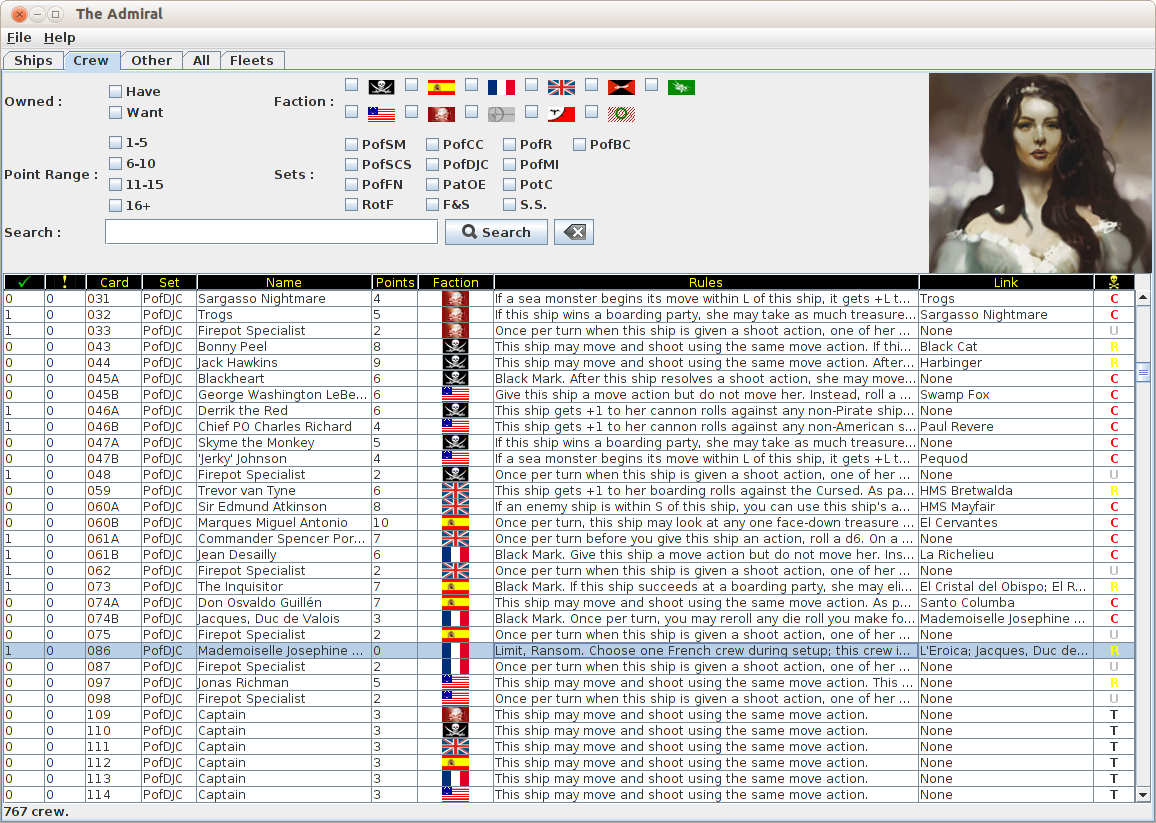
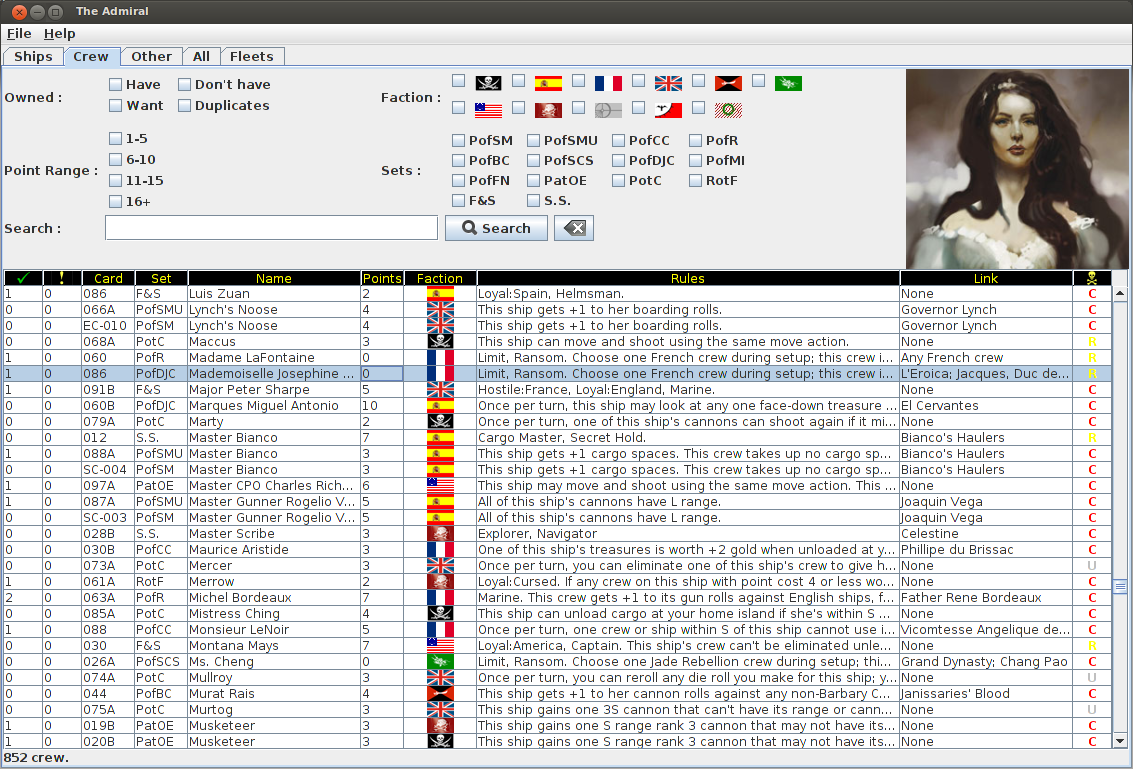
Added "don't have" filter.

diff --git a/src/main/java/net/coljac/pirates/gui/CardFilterPanel.java b/src/main/java/net/coljac/pirates/gui/CardFilterPanel.java
@@ -51,7 +51,7 @@ public class CardFilterPanel extends JPanel implements ActionListener {
     private JCheckBox pt1_5, pt6_10, pt11_15, pt_16;
 
     /** The want. */
-    private JCheckBox have, want, duplicates;
+    private JCheckBox have, donthave, want, duplicates;
 
     /** The search field. */
     private JTextField searchField;
@@ -161,6 +161,8 @@ public class CardFilterPanel extends JPanel implements ActionListener {
             }
         } else if (src == have) {
             filter.setHave(have.isSelected());
+        } else if (src == donthave) {
+            filter.setDonthave(donthave.isSelected());
         } else if (src == want) {
             filter.setWant(want.isSelected());
         } else if (src == duplicates) {
@@ -211,16 +213,17 @@ public class CardFilterPanel extends JPanel implements ActionListener {
         }
         final JPanel temp = getPanel();
         int cnt = 0;
-
-        final int nbExpansionsByRows = Math.round(expansionsList.size() / 4);
+        final int nbExpansionsByRows = Math.round(expansionsList.size() / 3);
+        System.out.println(">>>>>>>>>>>>>>" + nbExpansionsByRows);
         for (final JCheckBox check : expansionsList) {
             temp.add(check);
-            if ((cnt > 0) && ((cnt + 1) < expansionsList.size()) && ((cnt % nbExpansionsByRows) == 0)) {
+            System.out.println("  " + check.getText());
+            cnt++;
+            if ((cnt > 0) && ((cnt % nbExpansionsByRows) == 0)) {
                 temp.add(check, "h 14!, wrap");
             } else {
                 temp.add(check, "h 14!");
             }
-            cnt++;
 
         }
         temp.setPreferredSize(preferred);
@@ -305,17 +308,22 @@ public class CardFilterPanel extends JPanel implements ActionListener {
     private void initOwnedFilters(final JPanel p) {
         ownedLabel = new JLabel("Owned :");
         have = new JCheckBox("Have");
+        have.setToolTipText("Cards owned");
+        donthave = new JCheckBox("Don't have");
         duplicates = new JCheckBox("Duplicates");
         duplicates.setToolTipText("Cards owned more than 1 times");
         want = new JCheckBox("Want");
         have.addActionListener(this);
+        donthave.addActionListener(this);
+        donthave.setToolTipText("Cards not owned");
         duplicates.addActionListener(this);
         want.addActionListener(this);
 
         final JPanel temp = getPanel();
         temp.add(have, "h 15!");
-        temp.add(duplicates, "h 15!, wrap");
+        temp.add(donthave, "h 15!, wrap");
         temp.add(want, "h 15!");
+        temp.add(duplicates, "h 15!, wrap");
         p.add(ownedLabel);
         p.add(temp, "");
     }

diff --git a/src/main/java/net/coljac/pirates/gui/CardFilter.java b/src/main/java/net/coljac/pirates/gui/CardFilter.java
@@ -29,6 +29,9 @@ public class CardFilter {
     /** The have. */
     boolean have = false;
 
+    /** The donthave. */
+    boolean donthave = false;
+
     /** The want. */
     boolean want = false;
 
@@ -43,13 +46,13 @@ public class CardFilter {
      * @return the list<? extends card>
      */
     public List<? extends Card> filter(final List<? extends Card> cards) {
-        if ((factions.size() == 0) && (sets.size() == 0) && (pointRanges.size() == 0) && (search.length == 0) && !have && !want && !duplicates) {
+        if ((factions.size() == 0) && (sets.size() == 0) && (pointRanges.size() == 0) && (search.length == 0) && !have && !donthave && !want && !duplicates) {
             return cards;
         }
 
         final List<Card> filtered = new ArrayList<Card>();
         for (final Card card : cards) {
-            if (want || have || duplicates) {
+            if (want || have || donthave || duplicates) {
                 if (want && (card.getWanted() == 0)) {
                     continue;
                 }
@@ -57,6 +60,9 @@ public class CardFilter {
                     continue;
                 }
                 if (have && (card.getOwned() == 0)) {
+                    continue;
+                }
+                if (donthave && (card.getOwned() > 0)) {
                     continue;
                 }
             }
@@ -131,6 +137,15 @@ public class CardFilter {
     }
 
     /**
+     * Checks if is donthave.
+     * 
+     * @return true, if is donthave
+     */
+    public boolean isDonthave() {
+        return donthave;
+    }
+
+    /**
      * Checks if is duplicates.
      * 
      * @return true, if is duplicates
@@ -155,6 +170,16 @@ public class CardFilter {
      */
     public boolean isWant() {
         return want;
+    }
+
+    /**
+     * Sets the donthave.
+     * 
+     * @param donthave
+     *            the new donthave
+     */
+    public void setDonthave(final boolean donthave) {
+        this.donthave = donthave;
     }
 
     /**
